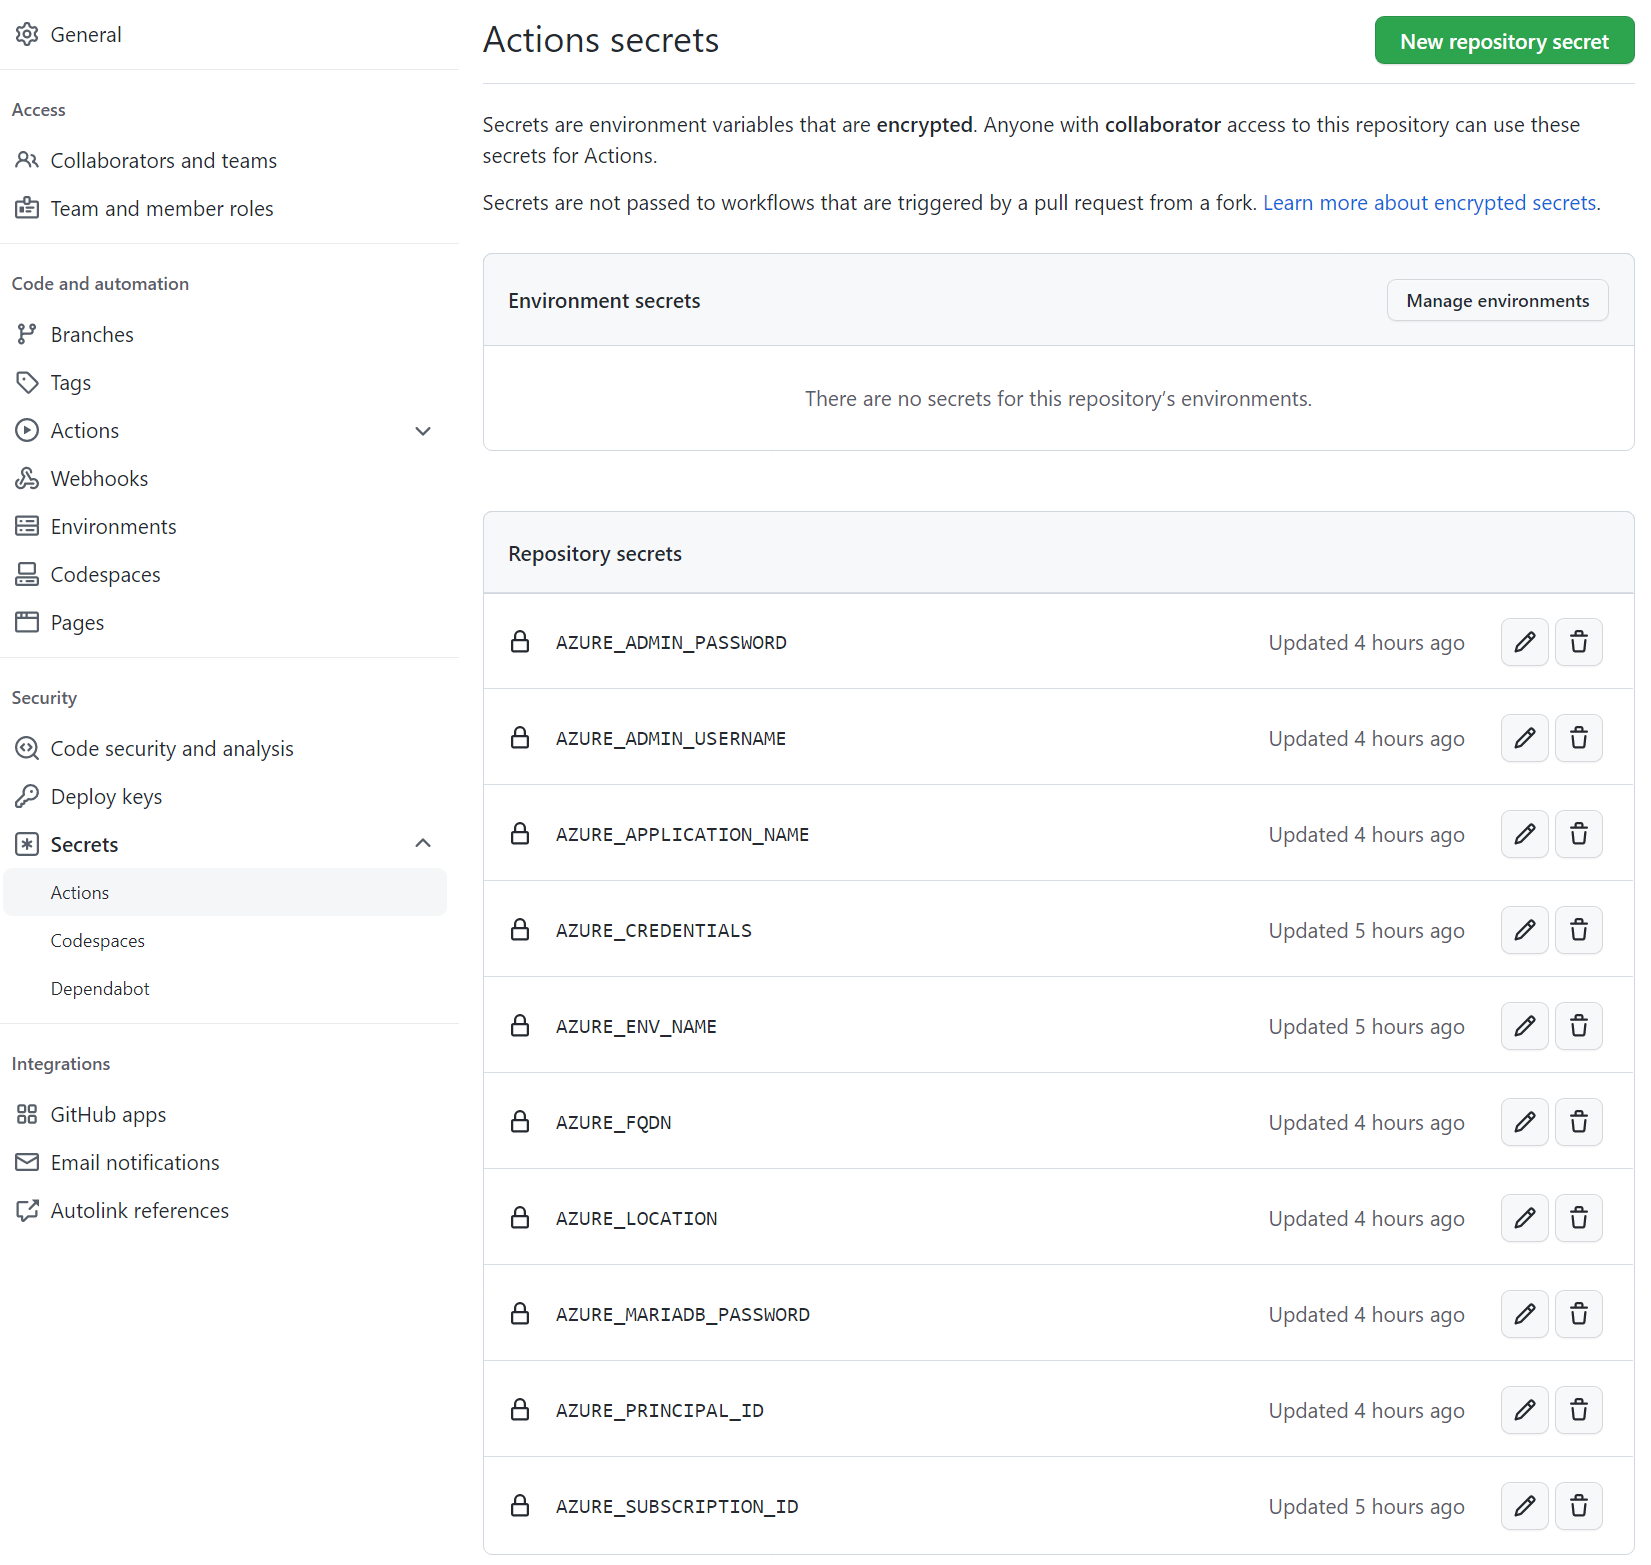
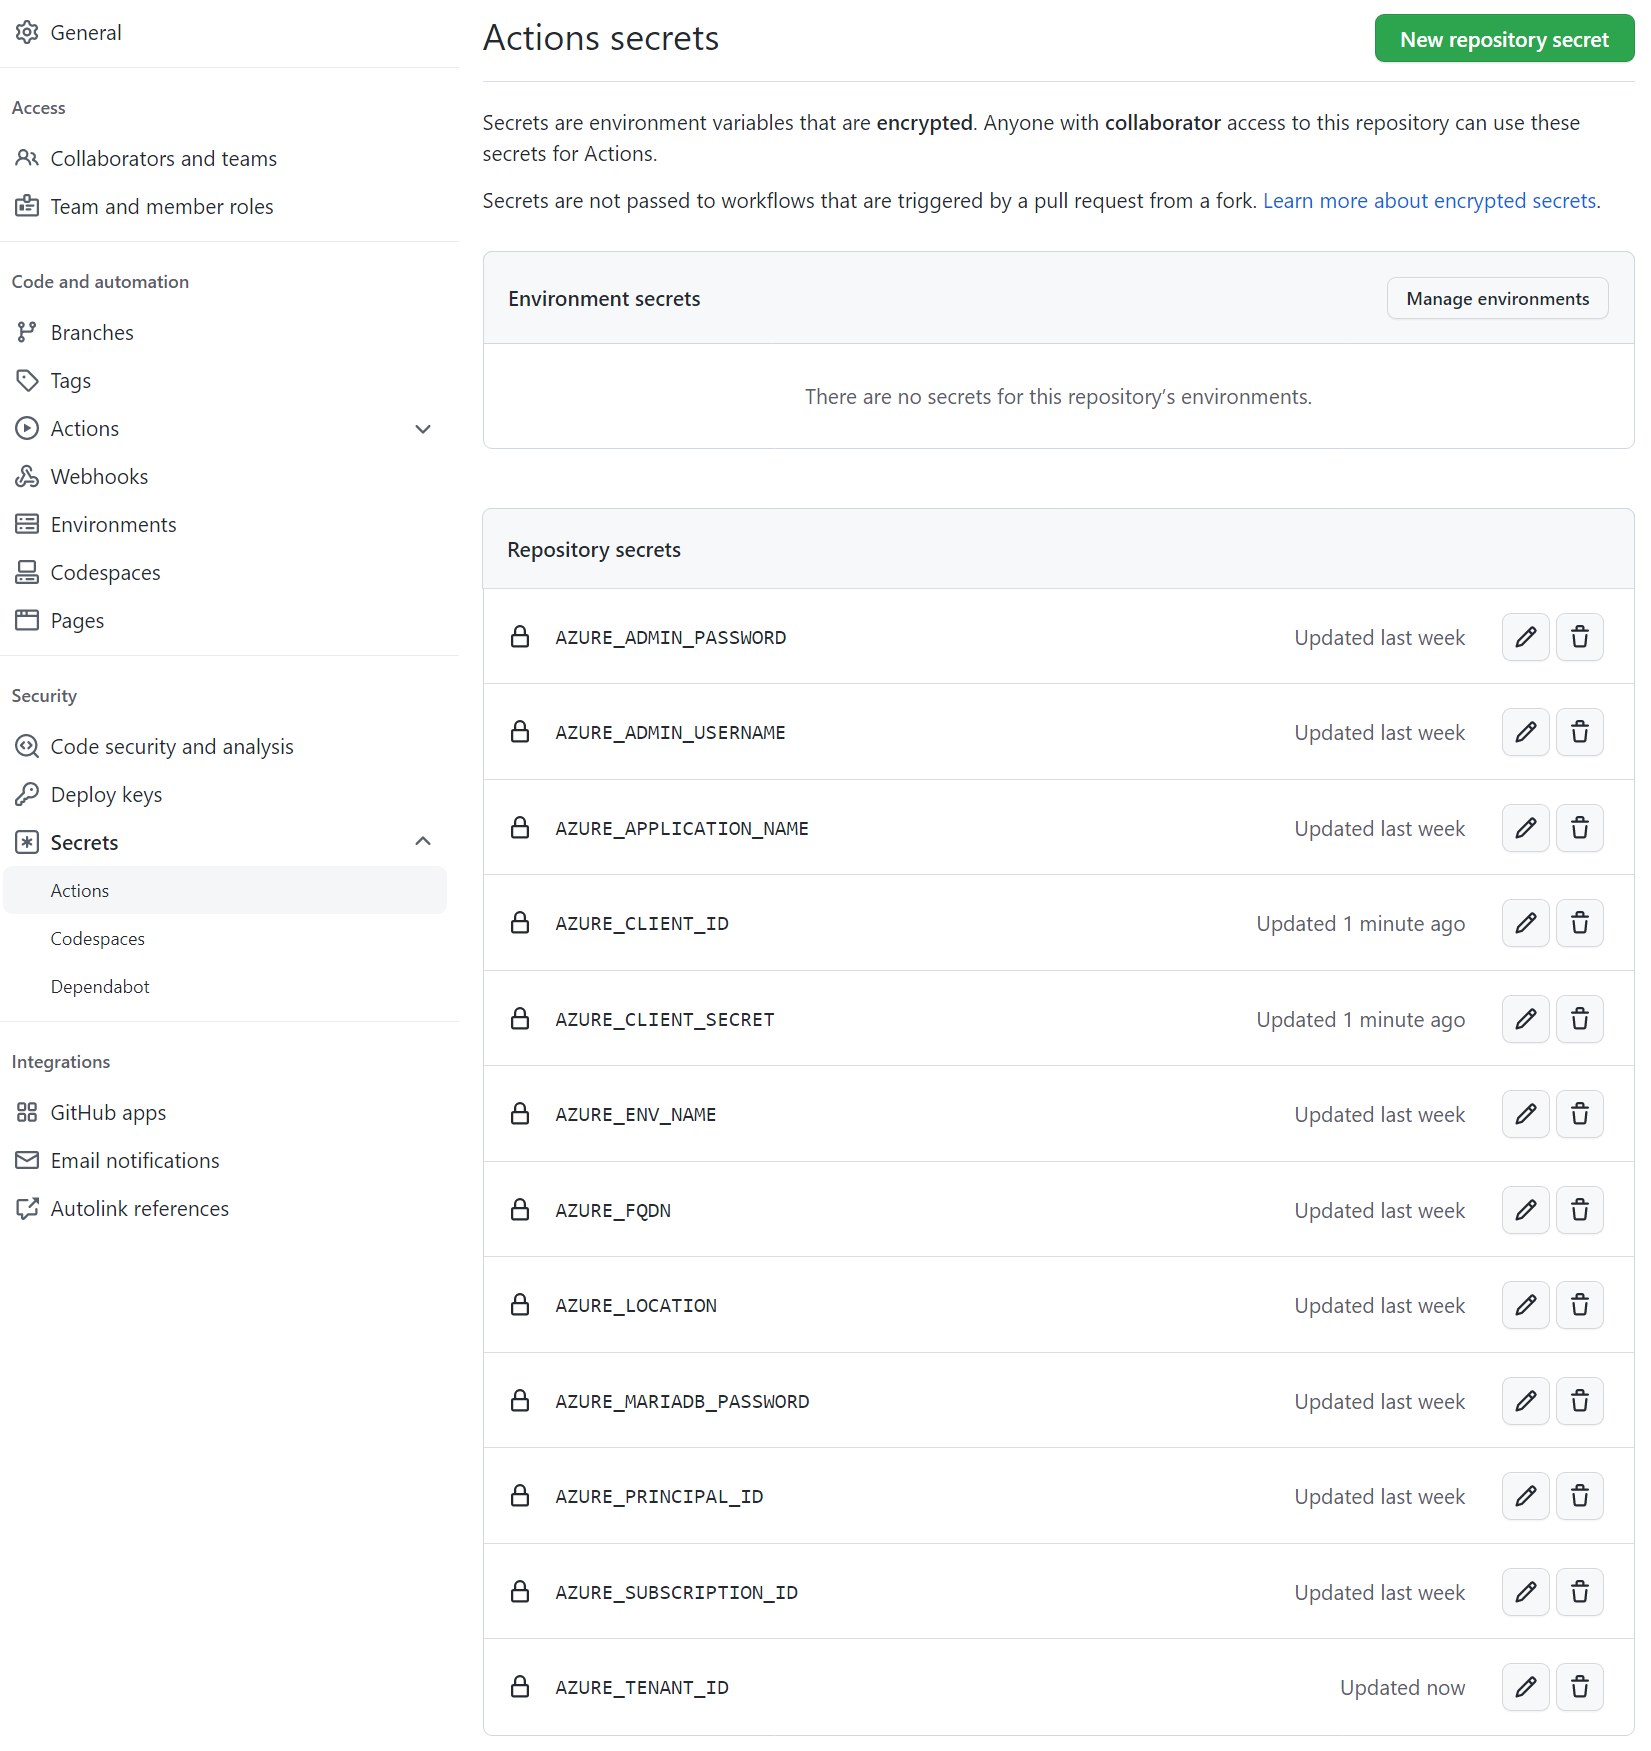
updated documentation and pipeline

diff --git a/README.md b/README.md
@@ -89,10 +89,16 @@ You can deploy this app template either using the Azure Developer CLI (azd) or t
     The newly created GitHub repo uses GitHub Actions to deploy Azure resources and application code automatically. Your subscription is accessed using an Azure Service Principal. This is an identity created for use by applications, hosted services, and automated tools to access Azure resources. The following steps show how to [set up GitHub Actions to deploy Azure applications](https://github.com/Azure/actions-workflow-samples/blob/master/assets/create-secrets-for-GitHub-workflows.md)
 
     Create an [Azure Service Principal](https://docs.microsoft.com/en-us/cli/azure/create-an-azure-service-principal-azure-cli) with **contributor** permissions on the subscription. The subscription-level permission is needed because the deployment includes creation of the resource group itself.
+    
+    * login interactively to azure using the following command:
+        ```bash
+        az login --scope https://graph.microsoft.com//.default
+        ```
+
     * Run the following [az cli](https://docs.microsoft.com/en-us/cli/azure/?view=azure-cli-latest) command, either locally on your command line or on the Cloud Shell. 
     Replace {app-name} {subscription-id} with the id of the subscription in GUID format.
         ```bash  
-        az ad sp create-for-rbac --name {app-name} --role contributor --scopes /subscriptions/{subscription-id}/resourceGroups/rg-ContosoUniversityDemo --sdk-auth     
+        az ad sp create-for-rbac --name {app-name} --role owner --scopes /subscriptions/{subscription-id} --sdk-auth     
         ```
     * The command should output a JSON object similar to this:
         ```json
@@ -107,18 +113,31 @@ You can deploy this app template either using the Azure Developer CLI (azd) or t
             "sqlManagementEndpointUrl": "<URL>",
             "galleryEndpointUrl": "<URL>",
             "managementEndpointUrl": "<URL>"
-        }```
+        }
+        ```
 
-    copy this information as it will be used in the next step.
+    store this information as it will be used in the next step.
 
-3. Store the output JSON as the value of a GitHub Actions secret named 'AZURE_CREDENTIALS'
+3. Store the following values as GitHub Actions secrets
     + Under your repository name, click Settings. 
     + In the "Security" section of the sidebar, select Secrets. 
     + At the top of the page, click New repository secret
-    + Provide the secret name as AZURE_CREDENTIALS
-    + Add the output JSON as secret value
+    + Provide the secret name as AZURE_CLIENT_ID
+    + Add the clientId field of the service principal that was created in the previous step as the value.
+    + Repeat the above steps for the following secrets:
+        + AZURE_CLIENT_SECRET
+        + AZURE_TENANT_ID
    
-4. Provide the rest of the secrets
+4. Repeat the above steps for the following secrets:
+    + AZURE_ADMIN_PASSWORD _The password for the jumphost_
+    + AZURE_ADMIN_USERNAME _The username for the jumphost_
+    + AZURE_APPLICATION_NAME _The name of the application_
+    + AZURE_ENV_NAME _The name of the environment e.g. prod_
+    + AZURE_FQDN _The FQDN of the WordPress site e.g. http://mywordpress.com_
+    + AZURE_LOCATION _The Azure DC region e.g. westeurope_
+    + AZURE_MARIADB_PASSWORD _The password for the MariaDB database_
+    + AZURE_SUBSCRIPTION_ID _The subscription id_
+    + AZURE_PRINCIPAL_ID _The service principal id_
     
     You will need to provide the following values as repository secrets to be used by the GitHub Actions workflow.
     ![Secrets](assets/github-secrets.png)
@@ -148,9 +167,20 @@ Once you have mapped the FQDN to the public IP address, you can navigate to the 
 
     > **Note:** Don't worry if the stylesheet is broken, that's because the siteurl and home variables haven't been configured yet.
 
-1. Fill in the database name with the value ```wordpress```, db user, db password, and db host and click Run the install
+1. Fill in the database name with the following values
 
     ![Setup](assets/wp-installation.png)
+
+    + Database *Fill in the value **wordpress***, 
+    + Username *Fill in the MariaDB database user name wit the value **db_admin***, 
+    + Password *Fill in the password you have entered during provisioning for the MariaDB database*
+    
+        > **Note:** If you do not remember the password, you can retrieve it from the Azure Portal by navigating to the resource group and selecting the wordpressweb container app. Then click on the **secrets** at the left hand blade select **db-pass** ecret and clicl at the **Click to show value** button.
+
+    * Database Host *Is the name of the MariaDB server and should be db*
+    * Table Prefix *Leave this as is*
+
+    When done click the submit button.
 
 1. Fill in the site title, the administrator username, password, and email address and click Install WordPress
 
